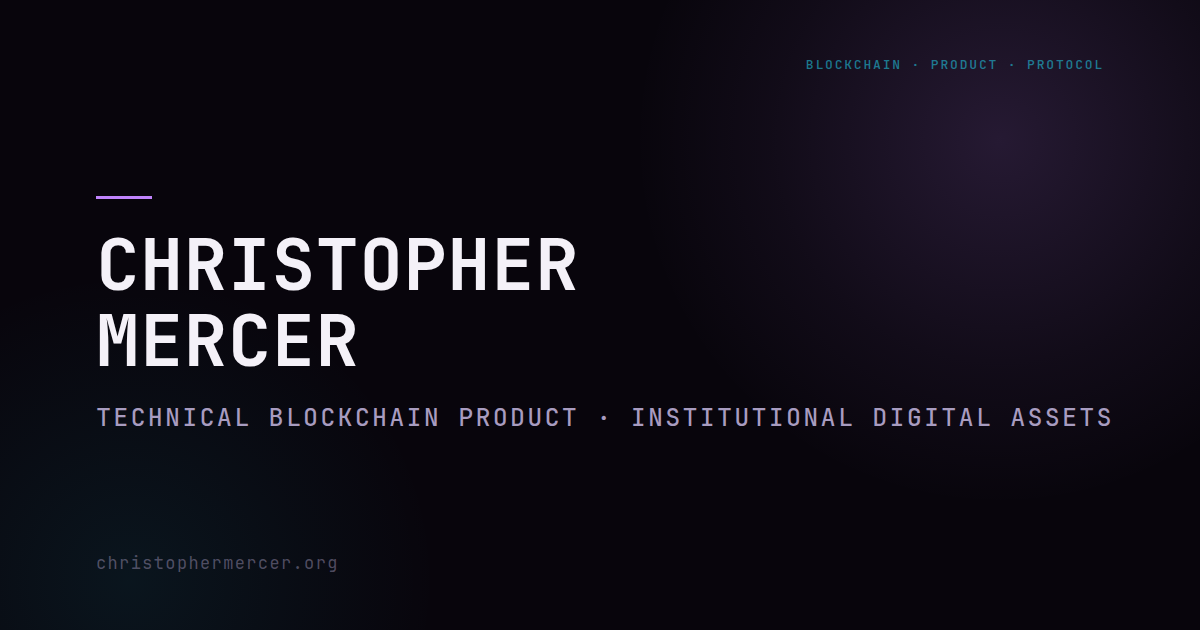
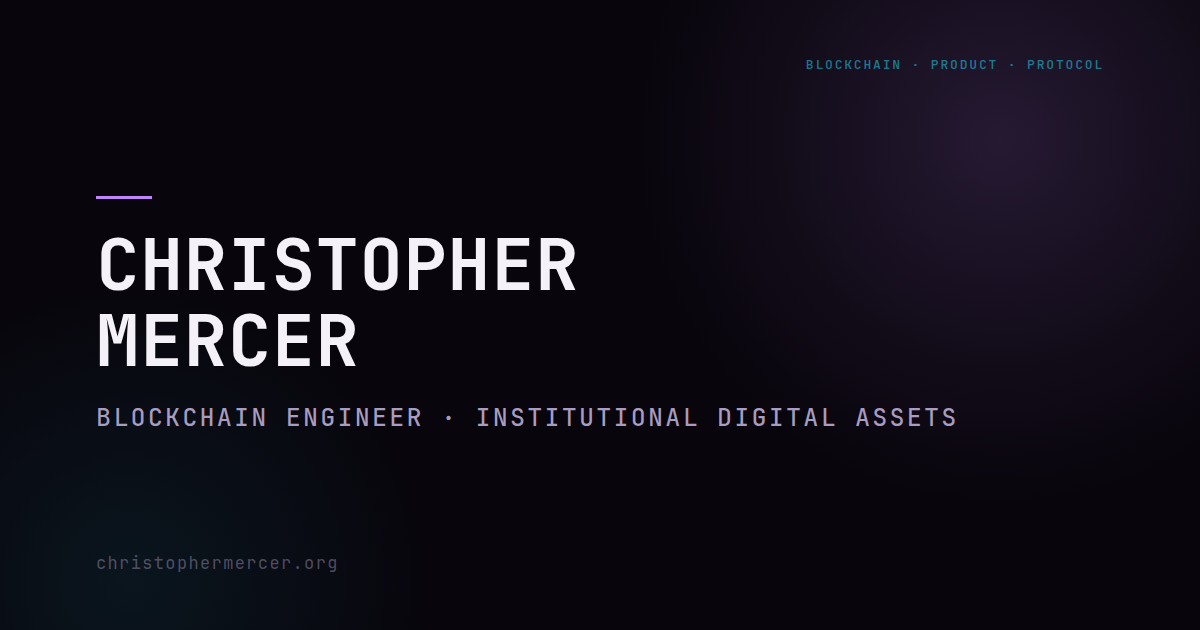
Change the site tagline to "Blockchain Engineer"
Replaces "Technical Blockchain Product" with "Blockchain Engineer" as the
role half of the tagline, everywhere it is user- or machine-visible: the
page <title> (which also feeds og:title and twitter:title), og:image:alt,
the Person JSON-LD jobTitle, the PWA manifest name, and the visible title
line in the info panel. README.md carried "Technical Product" rather than
"Technical Blockchain Product" and is brought onto the same string.

Also regenerates public/og-image.png. That file is a rendered PNG with the
subtitle baked into its pixels, so editing scripts/og-image.html alone
would have left every link preview showing the old tagline while the meta
tags claimed the new one. Re-rendered from the same source at 1200x630
with local JetBrains Mono; the result is identical to the previous asset
in every element except the subtitle line.

archive/ is untouched — it holds retired versions and carries its own
"Blockchain Engineer & Systems Architect" wording.

Changed region(s): [[0.0617, 0.6333, 0.925, 0.6937]]

diff --git a/scripts/og-image.html b/scripts/og-image.html
@@ -103,7 +103,7 @@
     <div class="content">
       <div class="rule"></div>
       <div class="name">CHRISTOPHER<br/>MERCER</div>
-      <div class="subtitle">Technical Blockchain Product &middot; Institutional Digital Assets</div>
+      <div class="subtitle">Blockchain Engineer &middot; Institutional Digital Assets</div>
     </div>
     <div class="domain">christophermercer.org</div>
   </div>

diff --git a/README.md b/README.md
@@ -1,6 +1,6 @@
 ### Christopher Mercer
 
-**Technical Product · Institutional Digital Assets**
+**Blockchain Engineer · Institutional Digital Assets**
 
 ---
 
